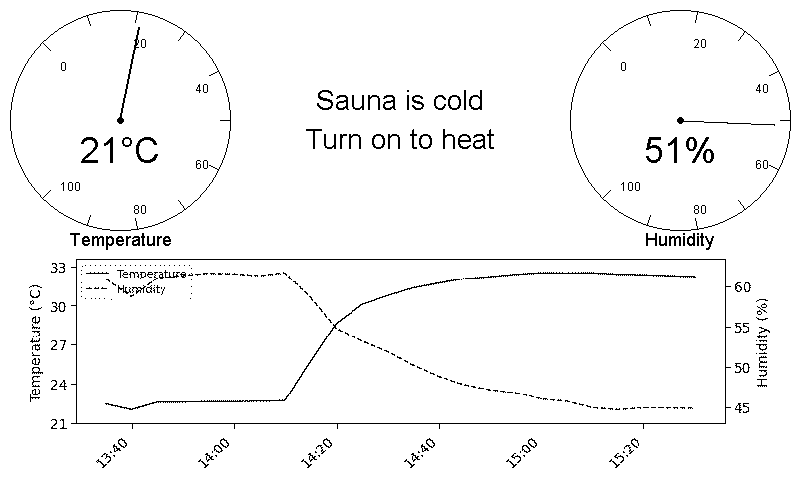
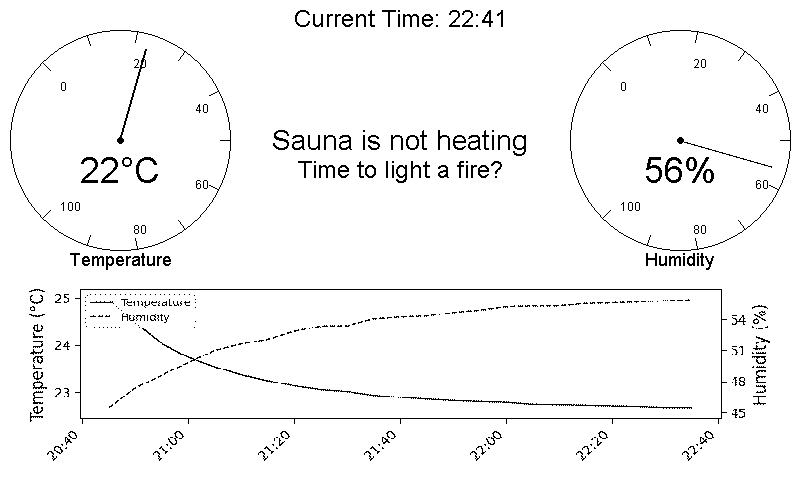
Added current time and time to ready. Let's see if it works.

diff --git a/display.py b/display.py
@@ -1,28 +1,40 @@
 import math
-import matplotlib.pyplot as plt
+import traceback
 from PIL import Image, ImageDraw, ImageFont
+import matplotlib.pyplot as plt
 import io
 from datetime import datetime, timedelta
+from data_analysis import get_current_time
 import os
 
-
 class Display:
-    def __init__(self, width, height):
-        self.width = width
-        self.height = height
-        self.is_sleeping = False
-        self.historical_data = []
-        self.is_mock = not self._is_raspberry_pi()
-        self.mock_display_path = os.path.join(os.path.dirname(os.path.abspath(__file__)), 'mock_display.png')
-        self.font = self.load_font()
-        self.graph_width = int(width * 0.95)  # 100% of display width
-        self.graph_height = int(height * 0.48)  # 48% of display height
+    def __init__(self, width=800, height=480):  # Default values added
+        try:
+            print(f"Initializing Display with width={width}, height={height}")
+            self.width = width
+            self.height = height
+            self.is_sleeping = False
+            self.historical_data = []
+            self.is_mock = not self._is_raspberry_pi()
+            self.mock_display_path = os.path.join(os.path.dirname(os.path.abspath(__file__)), 'mock_display.png')
+            self.font = self.load_font()
+            self.graph_width = int(width * 0.95)  # 95% of display width
+            self.graph_height = int(height * 0.40)  # 40% of display height
 
-        if not self.is_mock:
-            import epaper # type: ignore
-            self.epd = epaper.epaper('epd7in5_V2').EPD()
-        else:
-            print(f"Using mock display. Images will be saved to: {self.mock_display_path}")
+            if not self.is_mock:
+                try:
+                    import epaper # type: ignore
+                    self.epd = epaper.epaper('epd7in5_V2').EPD()
+                    print("Successfully initialized epaper display")
+                except Exception as e:
+                    print(f"Error initializing epaper display: {str(e)}")
+                    self.is_mock = True
+            
+            if self.is_mock:
+                print(f"Using mock display. Images will be saved to: {self.mock_display_path}")
+        except Exception as e:
+            print(f"Error in Display.init: {str(e)}")
+            print("Traceback:")
 
     def _is_raspberry_pi(self):
         return os.name == 'posix' and os.uname().sysname == 'Linux' and os.uname().machine.startswith('arm')
@@ -53,36 +65,46 @@ class Display:
         self.is_sleeping = False
 
     def update(self, current_temp, current_humidity, status_title, status_message):
-        if self.is_sleeping:
-            self.wake()
+        try:
+            if self.is_sleeping:
+                self.wake()
 
-        image = Image.new('1', (self.width, self.height), 255)
-        draw = ImageDraw.Draw(image)
+            image = Image.new('1', (self.width, self.height), 255)
+            draw = ImageDraw.Draw(image)
 
-        # Draw temperature gauge
-        self.draw_gauge(draw, current_temp, 120, 120, 110, "Temperature", "°C", 0, 100)
+            # Draw current time at the top
+            current_time = get_current_time()
+            draw.text((self.width // 2, 10), f"Current Time: {current_time.strftime('%H:%M')}", 
+                    fill=0, anchor="mt", font=self.load_font(24))
 
-        # Draw humidity gauge
-        self.draw_gauge(draw, current_humidity, self.width - 120, 120, 110, "Humidity", "%", 0, 100)
+            # Draw temperature gauge
+            self.draw_gauge(draw, current_temp, 120, 140, 110, "Temperature", "°C", 0, 100)
 
-        # Draw status
-        self.draw_status(draw, status_title, status_message)
+            # Draw humidity gauge
+            self.draw_gauge(draw, current_humidity, self.width - 120, 140, 110, "Humidity", "%", 0, 100)
 
-        if self.historical_data:
-            # Create and paste graph
-            graph = self.create_graph()
-            image.paste(graph, (int(self.width * 0.025), 250))  # 2.5% margin on left
+            # Draw status
+            self.draw_status(draw, status_title, status_message)
 
-        if self.is_mock:
-            try:
-                image.save(self.mock_display_path)
-                print(f"Display image saved as '{self.mock_display_path}'")
-            except Exception as e:
-                print(f"Error saving mock display image: {e}")
-                print(f"Current working directory: {os.getcwd()}")
-                print(f"File path used: {self.mock_display_path}")
-        else:
-            self.epd.display(self.epd.getbuffer(image)) 
+            if self.historical_data:
+                # Create and paste graph
+                graph = self.create_graph()
+                image.paste(graph, (int(self.width * 0.025), 280))  # Moved up
+
+            if self.is_mock:
+                try:
+                    image.save(self.mock_display_path)
+                    print(f"Display image saved as '{self.mock_display_path}'")
+                except Exception as e:
+                    print(f"Error saving mock display image: {e}")
+                    print(f"Current working directory: {os.getcwd()}")
+                    print(f"File path used: {self.mock_display_path}")
+            else:
+                self.epd.display(self.epd.getbuffer(image))
+        except Exception as e:
+            print(f"Error in Display.update: {str(e)}")
+            print("Traceback:")
+            traceback.print_exc()
 
     def add_data_point(self, data_point):
         self.historical_data.append(data_point)
@@ -109,8 +131,8 @@ class Display:
 
         # No need for time label maybe
         # ax1.set_xlabel('Time', fontsize=10)
-        ax1.set_ylabel('Temperature (°C)', fontsize=10)
-        ax2.set_ylabel('Humidity (%)', fontsize=10)
+        ax1.set_ylabel('Temperature (°C)', fontsize=12)
+        ax2.set_ylabel('Humidity (%)', fontsize=12)
 
         # Format x-axis to show time
         def format_time(x, pos):
@@ -211,28 +233,27 @@ class Display:
         # Draw center circle
         draw.ellipse([x-3, y-3, x+3, y+3], fill=0)
 
-    def draw_table(self, draw, data):
-        start_x, start_y = 50, 400
-        cell_width, cell_height = 150, 30
-        header_font = self.load_font(16)
-        font = self.load_font(14)
-
-        headers = ["Time", "Temp (°C)", "Humidity (%)"]
-        for i, header in enumerate(headers):
-            draw.rectangle([start_x + i*cell_width, start_y, start_x + (i+1)*cell_width, start_y + cell_height], outline=0)
-            draw.text((start_x + i*cell_width + 5, start_y + 5), header, font=header_font, fill=0)
-
-        for row, measurement in enumerate(data):
-            time = datetime.strptime(measurement['time'], '%Y-%m-%d %H:%M:%S').strftime('%H:%M')
-            temp = f"{measurement['temperature']:.1f}" if measurement['temperature'] is not None else "N/A"
-            humidity = f"{measurement['humidity']:.1f}" if measurement['humidity'] is not None else "N/A"
-            row_data = [time, temp, humidity]
-            for col, value in enumerate(row_data):
-                draw.rectangle([start_x + col*cell_width, start_y + (row+1)*cell_height,
-                                start_x + (col+1)*cell_width, start_y + (row+2)*cell_height], outline=0)
-                draw.text((start_x + col*cell_width + 5, start_y + (row+1)*cell_height + 5),
-                          value, font=font, fill=0)
-
     def draw_status(self, draw, status_title, status_message):
-        draw.text((self.width // 2, 100), status_title, font=self.load_font(28), fill=0, anchor="mm")
-        draw.text((self.width // 2, 140), status_message, font=self.load_font(28), fill=0, anchor="mm")
+        title_font = self.load_font(28)
+        message_font = self.load_font(24)
+        
+        # Calculate text sizes using textbbox
+        title_bbox = title_font.getbbox(status_title)
+        title_height = title_bbox[3] - title_bbox[1]
+        
+        # Calculate positions
+        center_x = self.width // 2
+        title_y = 120  # Moved up
+        message_y = title_y + title_height + 5  # Reduced padding
+        
+        # Draw title
+        draw.text((center_x, title_y), status_title, font=title_font, fill=0, anchor="mt")
+        
+        # Draw message (can be multi-line)
+        lines = status_message.split('\n')
+        for i, line in enumerate(lines):
+            message_bbox = message_font.getbbox(line)
+            message_height = message_bbox[3] - message_bbox[1]
+            line_y = message_y + i * (message_height + 3)  # Reduced space between lines
+            draw.text((center_x, line_y), line, font=message_font, fill=0, anchor="mt")
+

diff --git a/data_analysis.py b/data_analysis.py
@@ -1,6 +1,16 @@
 from datetime import datetime, timedelta
+import numpy as np
+from scipy.stats import linregress
 from config import TARGET_TEMP, MIN_ACTIVE_TEMP
 from database import get_historical_data
+import pytz
+
+# Assuming you're in Finland, but adjust the timezone as needed
+TIMEZONE = pytz.timezone('Europe/Stockholm')
+
+def get_current_time():
+    """Get the current time in the specified timezone."""
+    return datetime.now(TIMEZONE)
 
 def get_temperature_trend(hours=0.5):
     """
@@ -33,47 +43,67 @@ def get_estimated_time():
     
     Returns:
     tuple: A tuple containing the status (str), estimated time in minutes (int or None),
-           and a boolean indicating if the sauna is active.
+           expected ready time (datetime or None), and a boolean indicating if the sauna is active.
     """
-    historical_data = get_historical_data(hours=1)  # Use last 1 hour of data
+    historical_data = get_historical_data(hours=2)  # Use last 2 hours of data
     if len(historical_data) < 2:
-        return "Insufficient data", None, False
+        return "Insufficient data", None, None, False
     
-    # Convert data to list of tuples (timestamp, temperature)
-    temp_data = [(datetime.strptime(d['time'], '%Y-%m-%d %H:%M:%S'), d['temperature']) for d in historical_data]
-    temp_data.sort()  # Ensure data is in chronological order
+    # Sort data by time
+    historical_data.sort(key=lambda x: x['time'])
     
-    current_temp = temp_data[-1][1]
+    # Convert string times to datetime objects
+    for data in historical_data:
+        data['time'] = datetime.strptime(data['time'], '%Y-%m-%d %H:%M:%S')
+    
+    current_temp = historical_data[-1]['temperature']
+    current_time = get_current_time()
     
     # Check if the sauna is cold
     if current_temp < MIN_ACTIVE_TEMP:
-        return "Cold", None, False
+        return "Cold", None, None, False
     
     # Check if the sauna is at or above target temperature
     if current_temp >= TARGET_TEMP:
-        return "Ready", None, True
+        return "Ready", None, current_time, True
     
-    # Calculate temperature change over the last 15 minutes
-    recent_data = [d for d in temp_data if d[0] >= temp_data[-1][0] - timedelta(minutes=15)]
-    if len(recent_data) < 2:
-        recent_data = temp_data[-2:]  # Use at least two points
+    # Calculate temperature change over different time periods
+    time_periods = [5, 15, 30]  # minutes
+    rates = []
     
-    time_diff = (recent_data[-1][0] - recent_data[0][0]).total_seconds() / 3600  # in hours
-    temp_diff = recent_data[-1][1] - recent_data[0][1]
+    for period in time_periods:
+        cutoff_time = current_time - timedelta(minutes=period)
+        recent_data = [d for d in historical_data if d['time'] >= cutoff_time]
+        
+        if len(recent_data) < 2:
+            continue
+        
+        times = [(d['time'] - recent_data[0]['time']).total_seconds() / 60 for d in recent_data]
+        temps = [d['temperature'] for d in recent_data]
+        
+        slope, _, _, _, _ = linregress(times, temps)
+        rates.append(slope)
+    
+    if not rates:
+        return "Temperature stable", None, None, True
+    
+    # Use weighted average of rates, giving more weight to recent data
+    weights = [3, 2, 1][:len(rates)]
+    avg_rate = np.average(rates, weights=weights)
     
     # Check for stable temperature
-    if abs(temp_diff) < 1:  # Less than 1°C change in 15 minutes
-        return "Temperature stable", None, True
+    if abs(avg_rate) < 0.1:  # Less than 0.1°C change per minute
+        return "Temperature stable", None, None, True
     
     # Check if heating
-    if temp_diff > 0:
-        rate = temp_diff / time_diff  # °C per hour
-        time_to_target = (TARGET_TEMP - current_temp) / rate
-        minutes_to_target = int(time_to_target * 60)
-        return "Heating", minutes_to_target, True
+    if avg_rate > 0:
+        time_to_target = (TARGET_TEMP - current_temp) / avg_rate
+        minutes_to_target = int(time_to_target)
+        expected_ready_time = current_time + timedelta(minutes=minutes_to_target)
+        return "Heating", minutes_to_target, expected_ready_time, True
     
     # Temperature is dropping
-    return "Cooling", None, True
+    return "Cooling", None, None, True
 
 def get_status_message(current_temp, estimate):
     """
@@ -86,10 +116,11 @@ def get_status_message(current_temp, estimate):
     Returns:
     tuple: A tuple containing the status title (str) and status message (str).
     """
-    status, minutes, is_active = estimate
+    status, minutes, expected_ready_time, is_active = estimate
+    current_time = get_current_time()
     
     if status == "Cold":
-        return "Sauna is cold", "Turn on to heat"
+        return "Sauna is not heating", "Time to light a fire?"
     elif status == "Insufficient data":
         return "Collecting data", "Please wait..."
     elif status == "Temperature stable":
@@ -100,10 +131,10 @@ def get_status_message(current_temp, estimate):
     elif status == "Ready":
         return "Sauna is ready!", "Enjoy your sauna"
     elif status == "Heating":
-        if minutes > 60:
-            return f"Heating", f"{minutes // 60}h {minutes % 60}min to {TARGET_TEMP}°C"
+        if minutes is not None and expected_ready_time is not None:
+            return f"Heating", f"Ready in: {minutes} min\nAt: {expected_ready_time.strftime('%H:%M')}"
         else:
-            return f"Heating", f"{minutes} min to {TARGET_TEMP}°C"
+            return f"Heating", "Estimating time..."
     elif status == "Cooling":
         return "Temp dropping", "Add wood if needed"
     else:

diff --git a/main.py b/main.py
@@ -1,5 +1,6 @@
 import asyncio
 import time
+import pandas as pd
 from database import setup_database, check_data_freshness, cleanup_old_data, get_historical_data
 from ruuvitag_interface import RuuviTagInterface
 from display import Display
@@ -47,17 +48,22 @@ async def main():
         for data_point in historical_data:
             print(f"Time: {data_point['time']}, Temp: {data_point['temperature']}, Humidity: {data_point['humidity']}")
             display.add_data_point(data_point)
-            
+
         if historical_data:
-            latest_data = historical_data[0]
+            latest_data = historical_data[-1]  # Use the most recent data point
             current_temp = latest_data['temperature']
             current_humidity = latest_data['humidity']
-            status, minutes, is_active = get_estimated_time()
-            status_title, status_message = get_status_message(current_temp, (status, minutes, is_active))
+            status, minutes, expected_ready_time, is_active = get_estimated_time()  # Unpack 4 values
+            status_title, status_message = get_status_message(current_temp, (status, minutes, expected_ready_time, is_active))
             display.update(current_temp, current_humidity, status_title, status_message)
             print("Display updated with historical data.")
         else:
             print("No historical data available for initial display update.")
+    except Exception as e:
+        print(f"Error initializing or updating display: {e}")
+        print("Continuing without display updates.")
+        display = None
+
     except Exception as e:
         print(f"Error initializing or updating display: {e}")
         print("Continuing without display updates.")
@@ -82,14 +88,14 @@ async def main():
                 print(f"Current readings - Temperature: {current_temp:.2f}°C, Humidity: {current_humidity:.2f}%")
                 
                 if display:
-                    status, minutes, is_active = get_estimated_time()
+                    status, minutes, expected_ready_time, is_active = get_estimated_time()  # Now unpacking 4 values
                     
                     if is_active or current_time >= display_sleep_until:
                         if display.is_sleeping:
                             display.wake()
                         
                         if current_time - last_update_time >= UPDATE_INTERVAL:
-                            status_title, status_message = get_status_message(current_temp, (status, minutes, is_active))
+                            status_title, status_message = get_status_message(current_temp, (status, minutes, expected_ready_time, is_active))  # Passing 4 values
                             
                             print(f"Updating display - Status: {status_title}, Message: {status_message}")
                             display.update(current_temp, current_humidity, status_title, status_message)

diff --git a/config.py b/config.py
@@ -14,7 +14,7 @@ DATATYPE_LOG = ALL_SENSORS
 
 # Temperature settings
 TARGET_TEMP = 65  # Target temperature for the sauna in °C
-MIN_ACTIVE_TEMP = 40  # Minimum temperature to consider the sauna active in °C
+MIN_ACTIVE_TEMP = 30  # Minimum temperature to consider the sauna active in °C
 TEMP_DROP_THRESHOLD = -5  # Temperature drop threshold in °C per hour
 
 # Database settings
